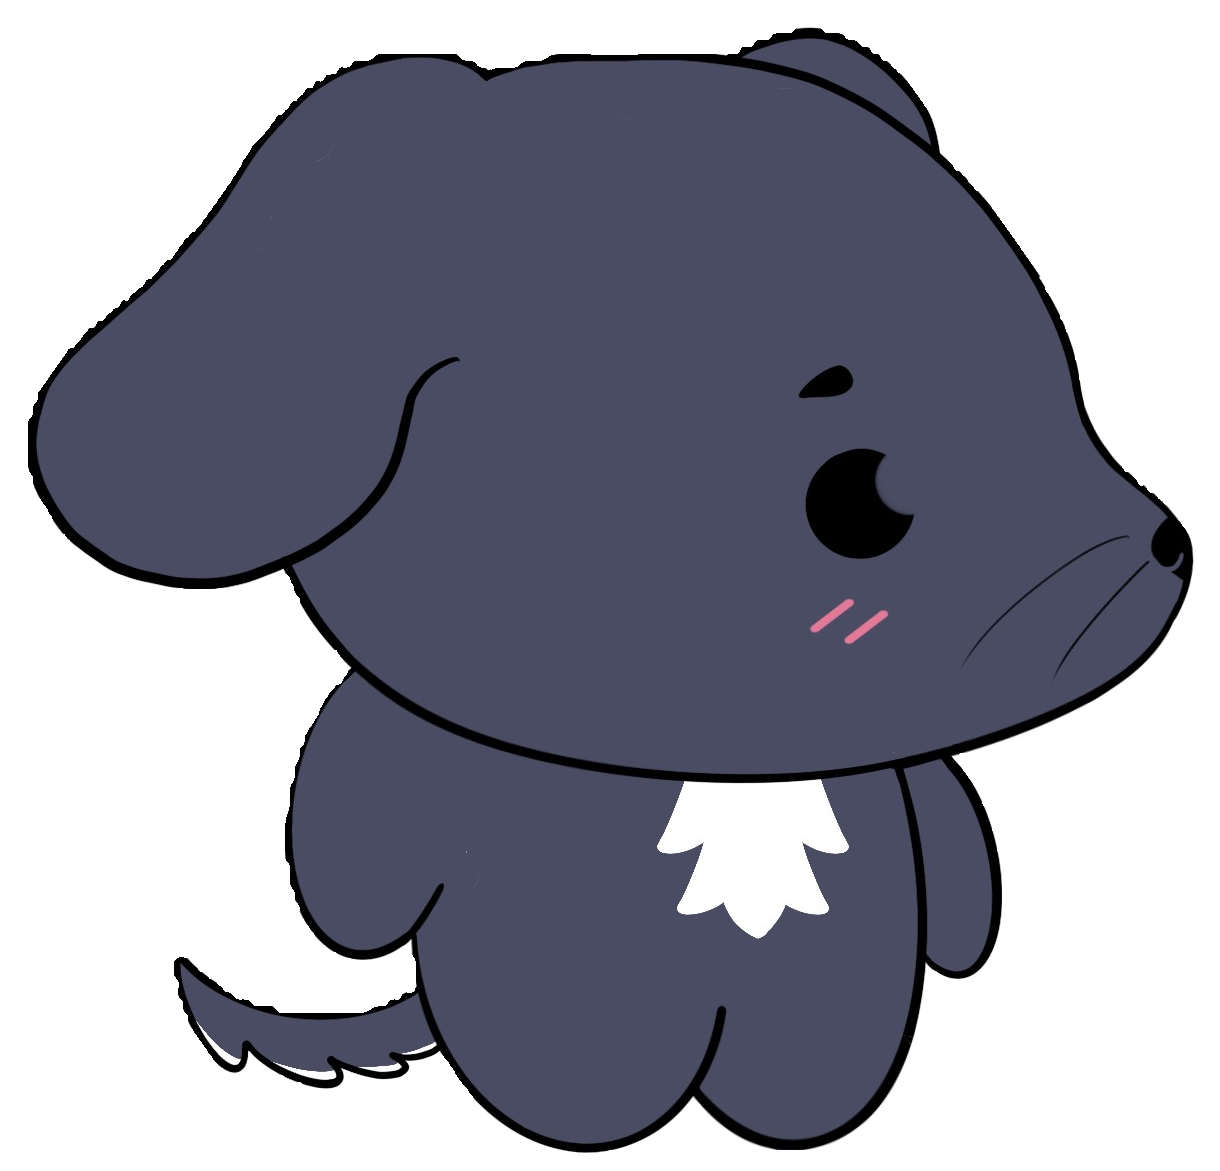
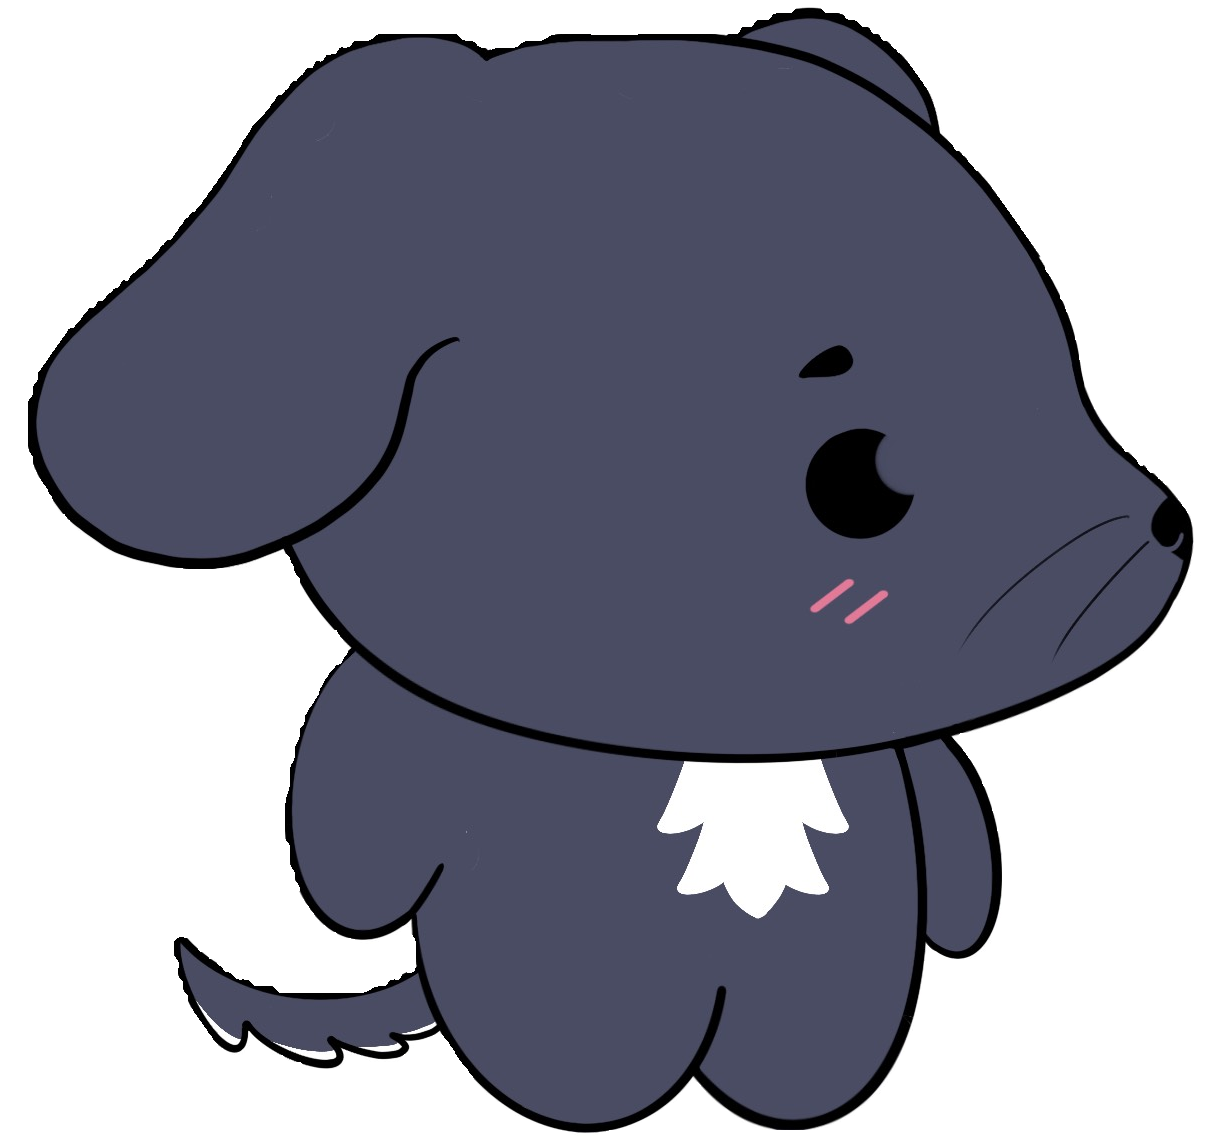
tamaños modificados

diff --git a/escaperoom.css b/escaperoom.css
@@ -50,7 +50,7 @@ body {
 
 #character {
     position: absolute;
-    width: 14%;
+    width: 19%;
     height: 14%;
     background-image: url('Imagenes/blackie_abajo_sinfondo.png');
     background-repeat: no-repeat;
